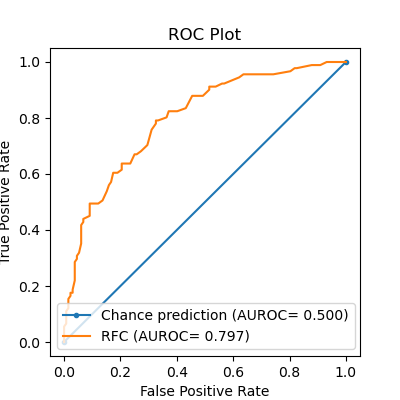
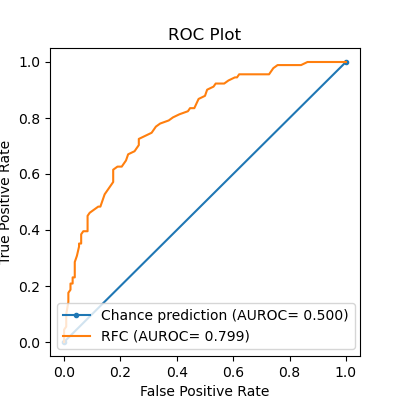
Added tsv output, and reran the program to have the tsv file match the png images.

diff --git a/src/Graph_Kernels.py b/src/Graph_Kernels.py
@@ -1,3 +1,5 @@
+import csv
+
 import pandas as pd
 from sklearn.model_selection import train_test_split, GridSearchCV, RandomizedSearchCV
 import matplotlib.pyplot as plt
@@ -18,10 +20,10 @@ UNUSED IMPORTS:
 """
 
 
-def standard_graph_file(data_set):
+def standard_graph_file(data_set, tsv_file):
     start = time()
     data, graph_labels = get_data_and_labels(data_set)
-    perform_rfc(data_set, data, graph_labels, start)
+    perform_rfc(data_set, data, graph_labels, start, tsv_file)
 
 
 def get_data_and_labels(data_set):
@@ -62,7 +64,7 @@ def get_csv_value_sum(data_set, extension):
     return sum((get_read_csv(data_set, extension).values.tolist()), [])
 
 
-def perform_rfc(data_set, data, graph_labels, start):
+def perform_rfc(data_set, data, graph_labels, start, tsv_file):
     g_train, g_test, y_train, y_test = train_test_split(data, graph_labels,
                                                         test_size=0.2, random_state=42)
 
@@ -79,13 +81,21 @@ def perform_rfc(data_set, data, graph_labels, start):
     rfc_prob = (rfc_pred.predict_proba(k_test))[:, 1]
     r_auc = roc_auc_score(y_test, r_prob)
     rfc_auc = roc_auc_score(y_test, rfc_prob)  # Compute AUROC scores
+    acc_score = accuracy_score(y_test, y_pred)
 
     print('Random prediction: AUROC = %.3f' % r_auc)
     print('RFC: AUROC = %.3f' % rfc_auc)
-    print(accuracy_score(y_test, y_pred))
-    print(f'Time taken to run:{time() - start} seconds')
+    print("Accuracy score:", acc_score)
+    print(f'Time taken to run: {time() - start} seconds')
 
+    write_tsv(data_set, r_auc, rfc_auc, acc_score, start, tsv_file)
     plot_roc_curve(data_set, y_test, r_prob, rfc_prob, r_auc, rfc_auc)
+
+
+def write_tsv(data_set, r_auc, rfc_auc, acc_score, start, tsv_file):
+    # if you want more output you must include here and update column names
+    tsv_file.writerow([data_set, '%.3f' % r_auc, '%.3f' % rfc_auc, acc_score,
+                       time() - start])
 
 
 def plot_roc_curve(data_set, y_test, r_prob, rfc_prob, r_auc, rfc_auc):
@@ -105,14 +115,29 @@ def plot_roc_curve(data_set, y_test, r_prob, rfc_prob, r_auc, rfc_auc):
     plt.show()  # show plot
 
 
+def get_tsv_writer(file):
+    tsv_file = csv.writer(file, delimiter='\t')  # makes output file into a tsv
+
+    # column names: if you want more output you must create a column name here
+    tsv_file.writerow(['dataset', 'Random_prediction_(AUROC=)', 'RFC_(AUROC=)',
+                       'accuracy_score(y_test, y_pred)', 'run_time'])
+
+    return tsv_file
+
+
 if __name__ == '__main__':
     # removed "ENZYMES" and "FIRSTMM_DB" as they both have an error appear
     datasets = ["BZR", "COX2", "DHFR", "PROTEINS"]
+
+    output_file = open("../results/Graph_Kernels/Graph_Kernels_output.tsv", "wt")
+    tsv_writer = get_tsv_writer(output_file)
+
     for dataset in datasets:
         print("Working on: " + dataset)
-        standard_graph_file(dataset)
+        standard_graph_file(dataset, tsv_writer)
         print()
 
+    output_file.close()
     print("End of processing.")
 
     # TO DO:
